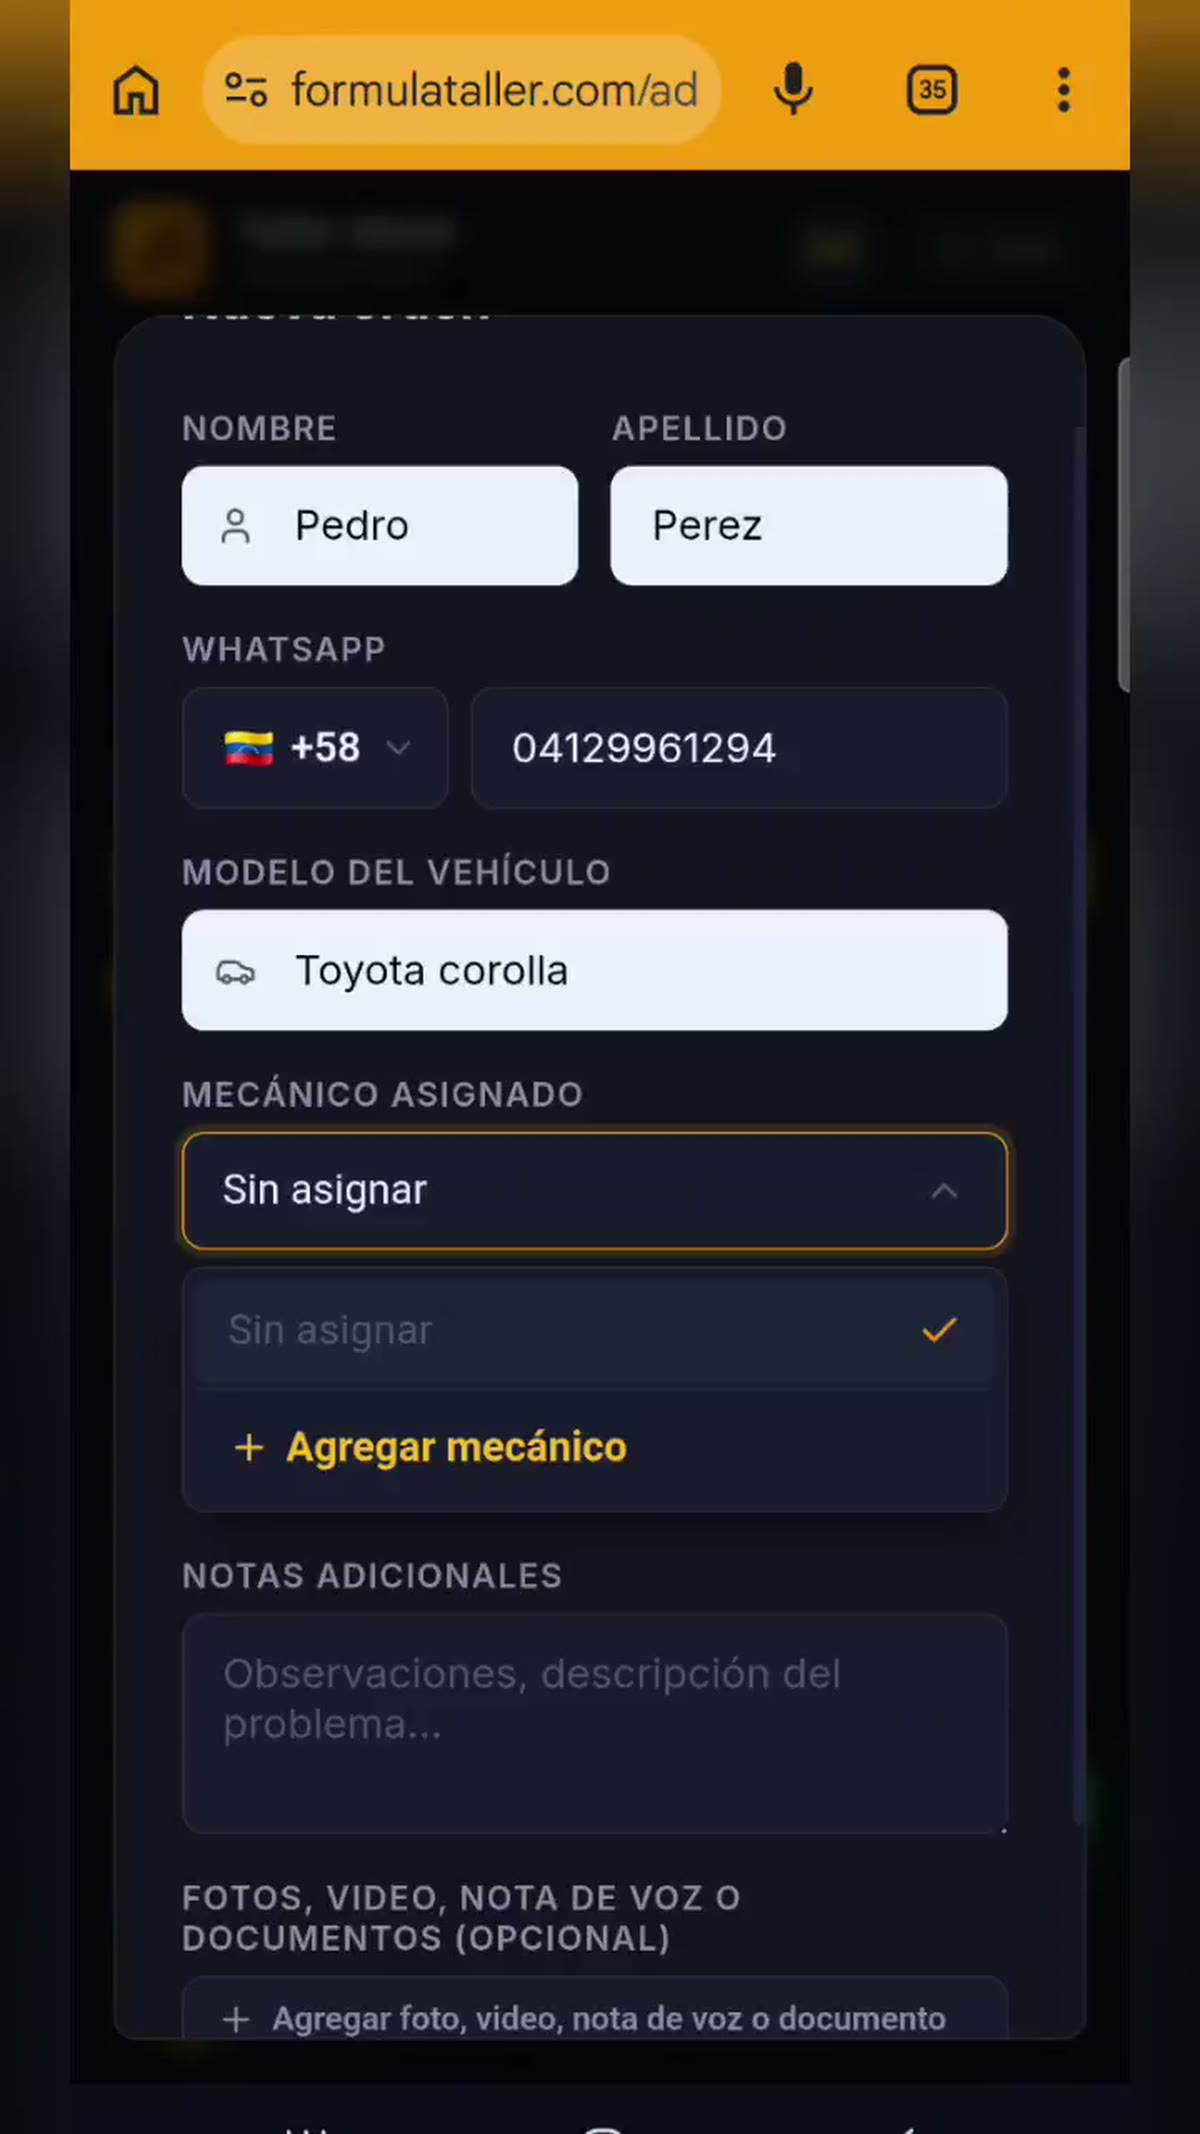
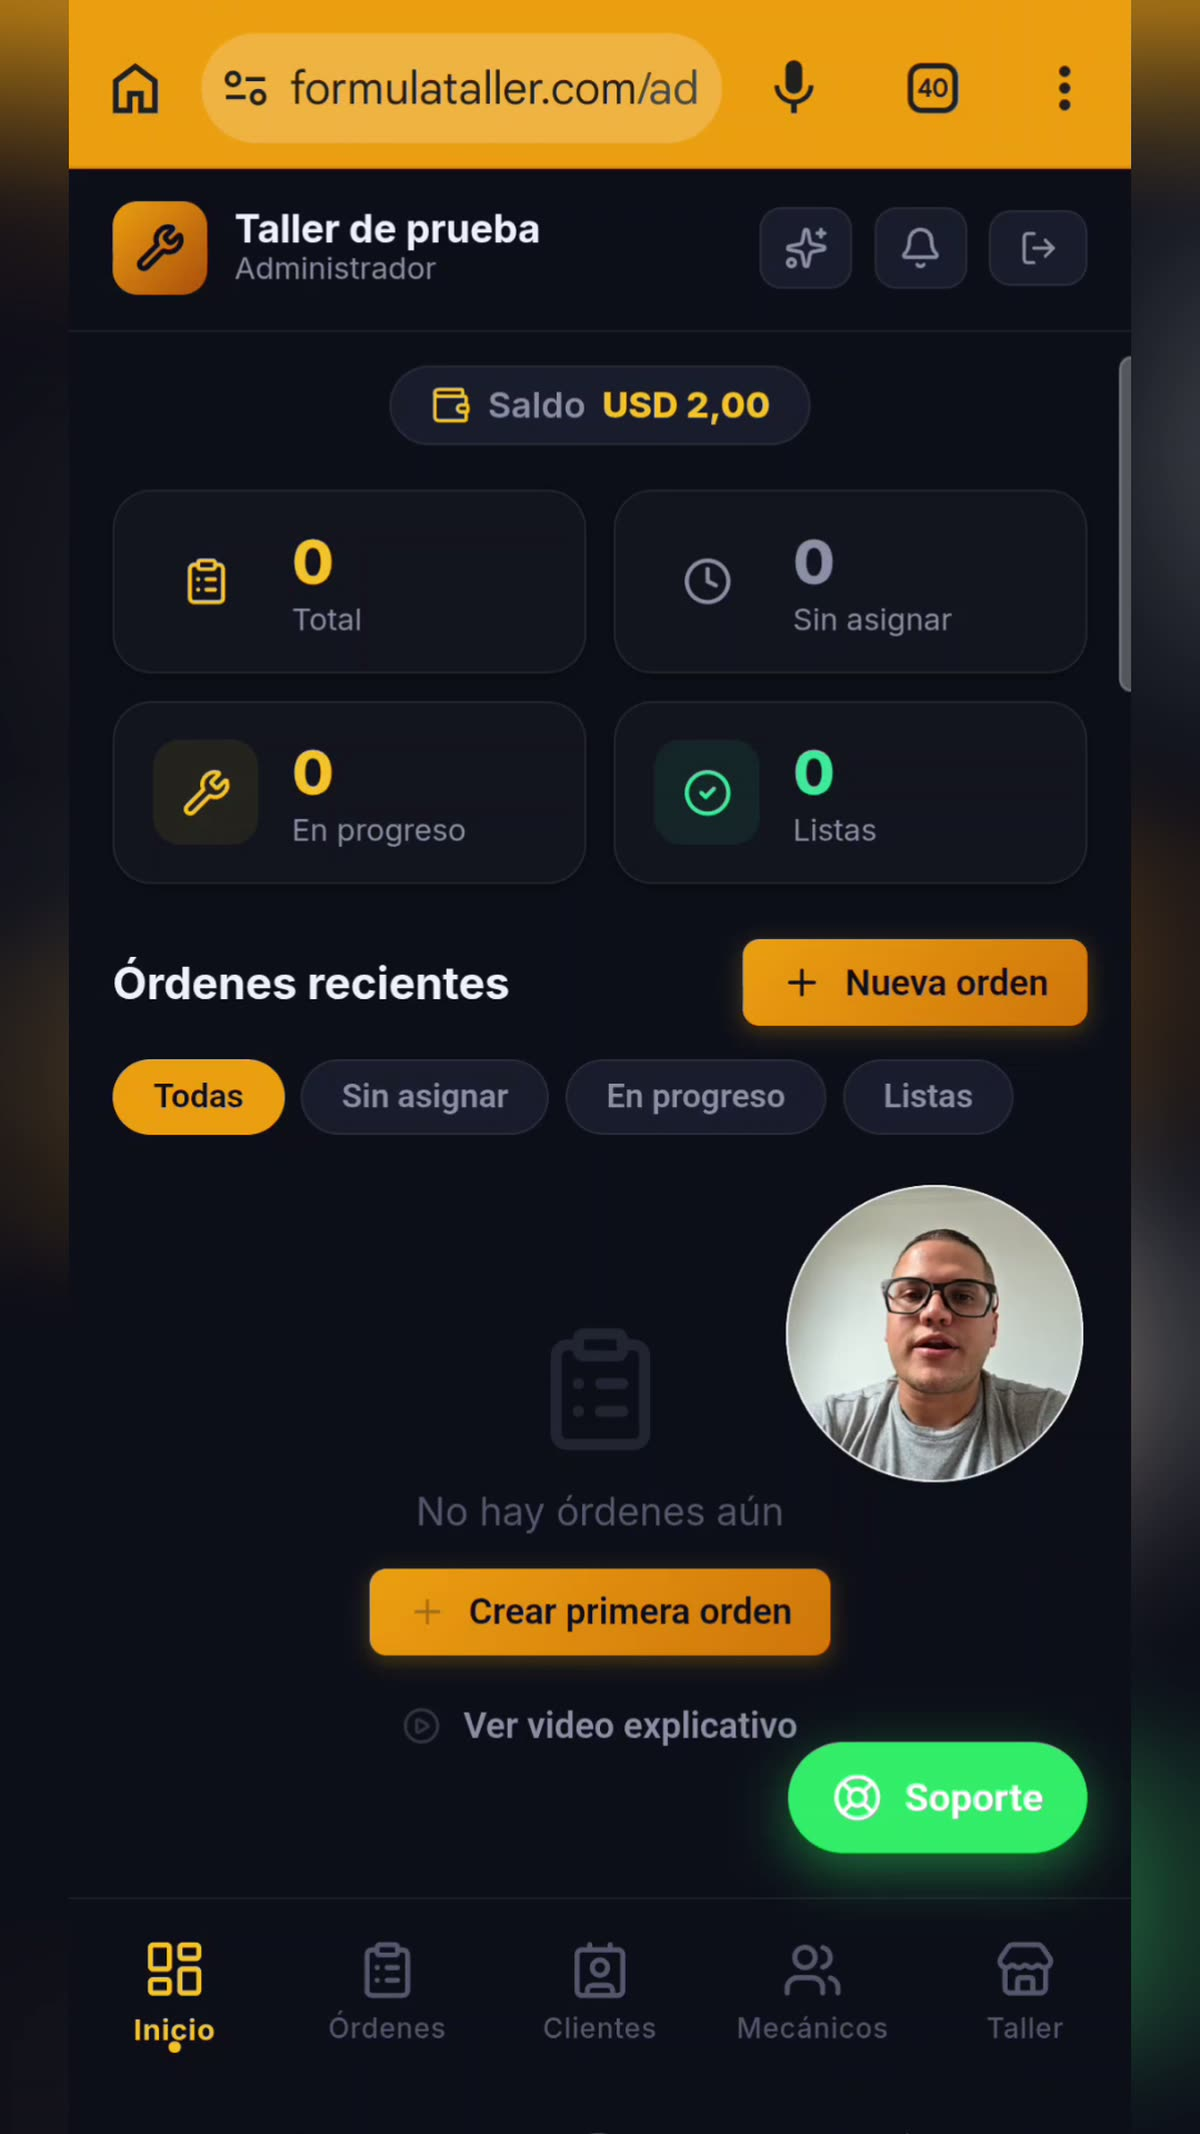
feat(admin): botón Tutorial en el encabezado y miniatura del video nuevo
El encabezado queda en una sola línea: el nombre del taller se recorta con
«…» y los botones no se encogen. El video nuevo (comprimido a 720p, 29 MB)
ya está en el bucket tutorials y en platform_settings.tutorial_video_url.

diff --git a/src/components/layout/TopBar.tsx b/src/components/layout/TopBar.tsx
@@ -1,7 +1,9 @@
 'use client';
 
+import { useState } from 'react';
 import Link from 'next/link';
-import { LogOut, Sparkles, Wrench } from 'lucide-react';
+import { LogOut, PlayCircle, Sparkles, Wrench } from 'lucide-react';
+import Modal from '@/components/ui/Modal';
 import NotificationBell from '@/components/layout/NotificationBell';
 import { createClient } from '@/lib/supabase/client';
 import { usePathname, useRouter } from 'next/navigation';
@@ -16,6 +18,7 @@ export default function TopBar({ profile, title }: TopBarProps) {
   const router = useRouter();
   const pathname = usePathname();
   const supabase = createClient();
+  const [verTutorial, setVerTutorial] = useState(false);
 
   async function handleLogout() {
     await supabase.auth.signOut();
@@ -37,17 +40,20 @@ export default function TopBar({ profile, title }: TopBarProps) {
         display: 'flex',
         alignItems: 'center',
         justifyContent: 'space-between',
-        padding: '0 16px',
+        padding: '0 12px',
+        gap: 8,
         zIndex: 50,
         paddingTop: 'env(safe-area-inset-top)',
       }}
     >
-      {/* Logo + Title */}
-      <div style={{ display: 'flex', alignItems: 'center', gap: 10 }}>
+      {/* Logo + Title. El nombre del taller se recorta con «…» para que los
+          botones de la derecha quepan siempre en una sola línea. */}
+      <div style={{ display: 'flex', alignItems: 'center', gap: 8, minWidth: 0, flex: 1 }}>
         <div
           style={{
             width: 34,
             height: 34,
+            flexShrink: 0,
             background: 'linear-gradient(135deg, var(--color-brand-500), var(--color-brand-700))',
             borderRadius: 9,
             display: 'flex',
@@ -57,8 +63,17 @@ export default function TopBar({ profile, title }: TopBarProps) {
         >
           <Wrench size={18} color="#0D0F1A" strokeWidth={2.5} />
         </div>
-        <div>
-          <p style={{ fontSize: 14, fontWeight: 700, lineHeight: 1 }}>
+        <div style={{ minWidth: 0 }}>
+          <p
+            style={{
+              fontSize: 14,
+              fontWeight: 700,
+              lineHeight: 1.1,
+              whiteSpace: 'nowrap',
+              overflow: 'hidden',
+              textOverflow: 'ellipsis',
+            }}
+          >
             {title || 'Formula Taller'}
           </p>
           <p style={{ fontSize: 11, color: 'var(--color-text-secondary)', lineHeight: 1, marginTop: 2 }}>
@@ -67,15 +82,35 @@ export default function TopBar({ profile, title }: TopBarProps) {
         </div>
       </div>
 
-      {/* Asistente, campana y Salir.
-          Antes había aquí el tutorial y un círculo con las iniciales del
-          taller. Se quitaron los dos a propósito: en un teléfono no cabían
-          junto a "Presupuestos", que es un acceso de uso diario, y las
-          iniciales no hacían nada (el nombre del taller ya está a la
-          izquierda). El tutorial sigue en /video. */}
-      <div style={{ display: 'flex', alignItems: 'center', gap: 8 }}>
+      {/* Tutorial, asistente, campana y Salir: siempre en una línea (no se
+          encogen; lo que cede es el nombre del taller). «Tutorial» va en letra
+          pequeña para que quepa en un teléfono de 360 px. */}
+      <div style={{ display: 'flex', alignItems: 'center', gap: 6, flexShrink: 0 }}>
         {profile.role === 'admin' && (
           <>
+            <button
+              type="button"
+              onClick={() => setVerTutorial(true)}
+              title="Ver el video tutorial"
+              style={{
+                display: 'flex',
+                alignItems: 'center',
+                gap: 4,
+                background: 'rgba(245,158,11,0.12)',
+                border: '1px solid rgba(245,158,11,0.35)',
+                borderRadius: 8,
+                padding: '6px 7px',
+                color: 'var(--color-brand-400)',
+                fontSize: 11,
+                fontWeight: 700,
+                lineHeight: 1,
+                whiteSpace: 'nowrap',
+                cursor: 'pointer',
+              }}
+            >
+              <PlayCircle size={14} />
+              Tutorial
+            </button>
             <Link
               href="/admin/asistente"
               aria-label="Asistente"
@@ -105,7 +140,7 @@ export default function TopBar({ profile, title }: TopBarProps) {
             background: 'var(--color-surface-2)',
             border: '1px solid var(--color-border)',
             borderRadius: 8,
-            padding: '6px 10px',
+            padding: '6px 8px',
             color: 'var(--color-text-secondary)',
             cursor: 'pointer',
             display: 'flex',
@@ -126,6 +161,26 @@ export default function TopBar({ profile, title }: TopBarProps) {
           <span className="tb-label">Salir</span>
         </button>
       </div>
+
+      {/* El video se abre aquí mismo (ventana emergente) cargando /video, que
+          lo toma de platform_settings. Solo se monta al abrir, para no
+          descargar el video a quien no lo pide. */}
+      {verTutorial && (
+        <Modal isOpen onClose={() => setVerTutorial(false)} title="Tutorial">
+          <iframe
+            src="/video"
+            title="Video tutorial de Formula Taller"
+            allow="autoplay; fullscreen; picture-in-picture"
+            style={{
+              width: '100%',
+              height: '65dvh',
+              border: '1px solid var(--color-border)',
+              borderRadius: 'var(--border-radius-sm)',
+              background: '#000',
+            }}
+          />
+        </Modal>
+      )}
     </header>
   );
 }
